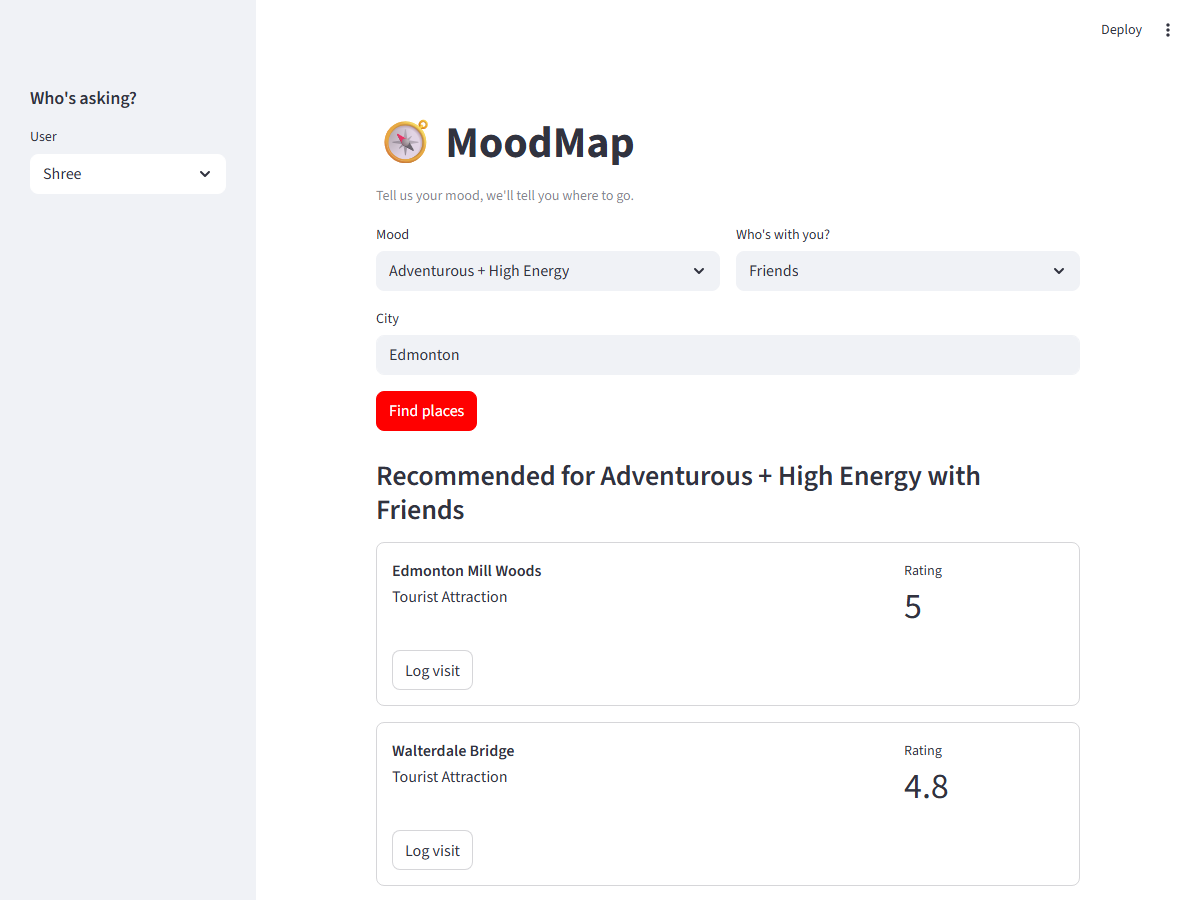
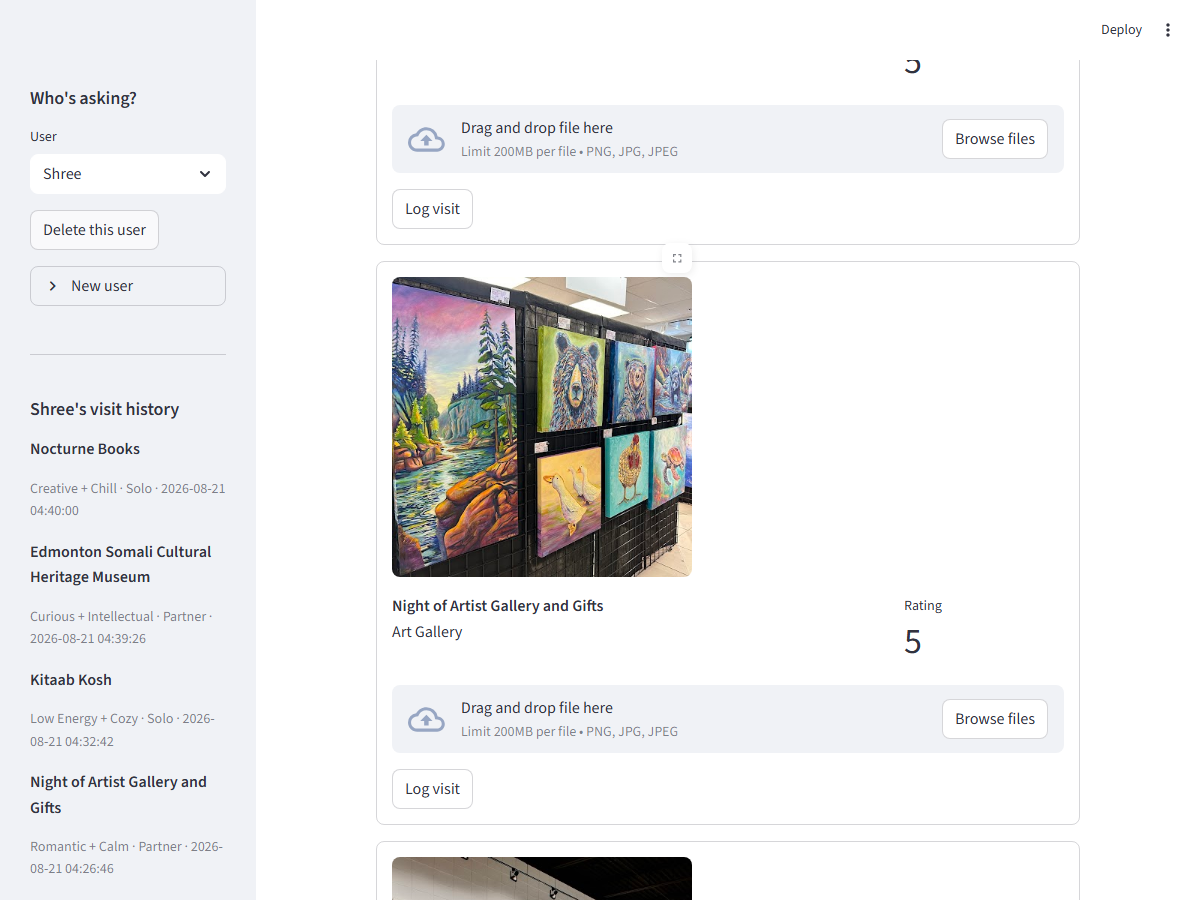
Update README and screenshot for new features
Documents photo display, photo-on-visit upload, sidebar visit
history, and user create/delete. Screenshot refreshed to match.

diff --git a/README.md b/README.md
@@ -4,15 +4,23 @@ Pick a mood and who you're with, and MoodMap suggests places in your city to go 
 
 ![MoodMap screenshot](screenshot.png)
 
+## Features
+
+- Pick a mood and who you're with — every mood has a sensible default set of place types, so any combination returns results
+- Real place photos on each recommendation (Google Places API)
+- Log a visit, optionally attaching your own photo — shown as a thumbnail in your visit history
+- Visit history lives in the sidebar, always visible while browsing recommendations
+- Create or delete users from the sidebar — no password, just a name
+
 ## How it works
 
 | Component | Description |
 |---|---|
-| `mood_logic.py` | Maps a (mood, companion) pair to Google Places types, e.g. `("Low Energy + Cozy", "Solo")` → `["cafe", "book_store"]` |
-| `api_utils.py` | Looks up places for those types. Uses the Google Places API if a key is configured, otherwise falls back to mock Edmonton place data |
+| `mood_logic.py` | Maps mood → default Google Places types, with per-companion overrides where useful, e.g. `("Low Energy + Cozy", "Solo")` → `["cafe", "book_store"]` |
+| `api_utils.py` | Looks up places (and a photo) for those types. Uses the Google Places API if a key is configured, otherwise falls back to mock Edmonton place data |
 | `recommender.py` | Combines the two above and ranks results by rating |
-| `database.py` | SQLite storage for users, places, visits, and reviews |
-| `app.py` | Streamlit UI — pick a mood, get recommendations, log visits |
+| `database.py` | SQLite storage for users, places, visits (with optional photo), and reviews |
+| `app.py` | Streamlit UI — pick a mood, get recommendations, log visits, manage users |
 
 ## Setup
 
@@ -22,6 +30,8 @@ python -m venv .venv
 pip install -r requirements.txt
 python database.py            # creates moodmap.db and seeds sample users
 ```
+
+Or just double-click `run.bat`, which does the above and starts the app.
 
 ## Using a real Google Places API key (optional)
 
